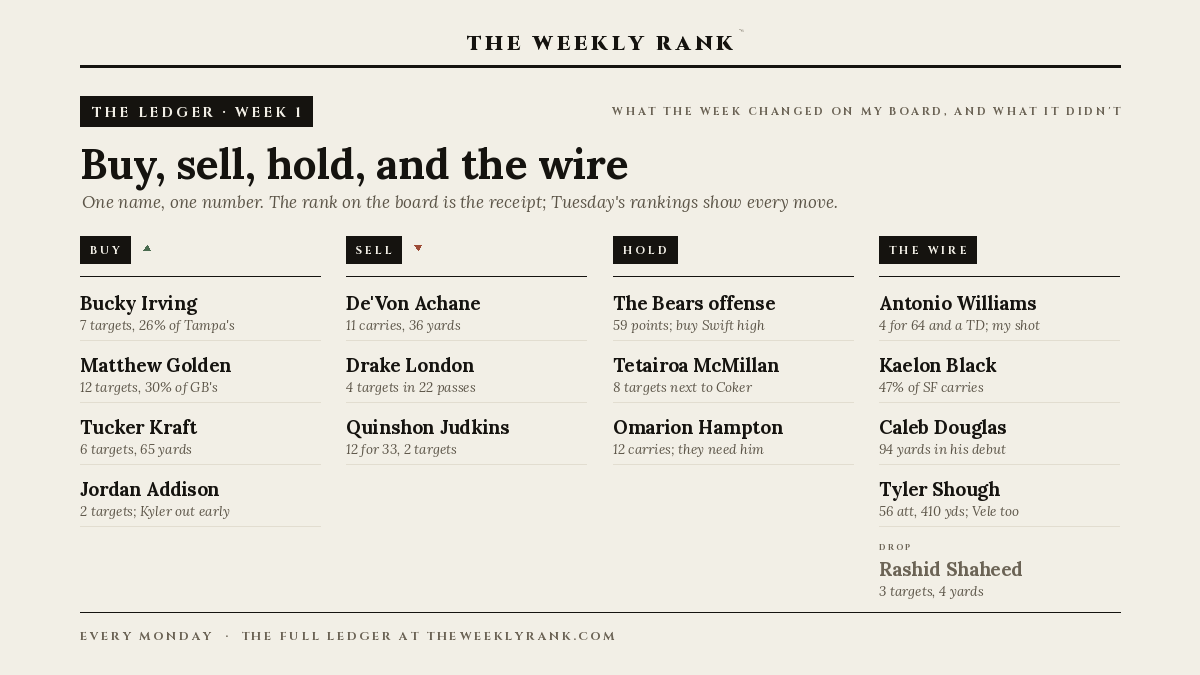
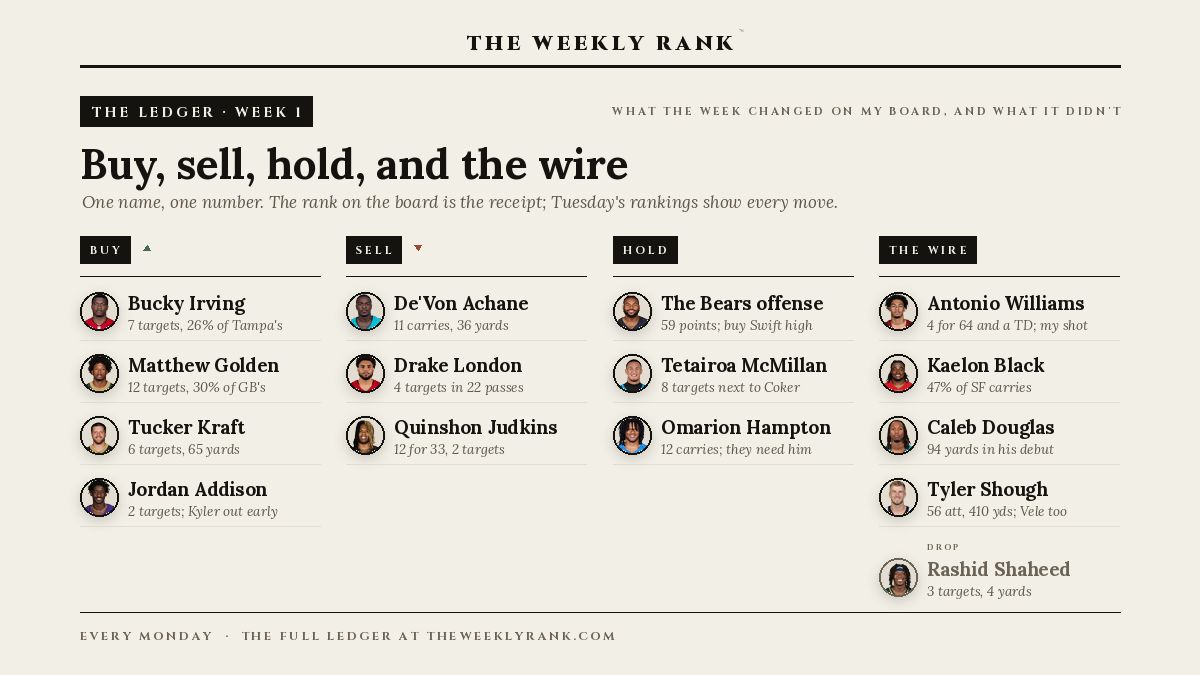
Ledger: Hampton/Herbert hero (All-Pro Reels, CC BY-SA 4.0); headshot plates on the movers and Ledger cards

diff --git a/src/articles/the-ledger-2026-week-01.md b/src/articles/the-ledger-2026-week-01.md
@@ -6,9 +6,9 @@ section: "The Ledger"
 kicker: "Week 1 · The Ledger"
 date: 2026-09-15
 readtime: "6 min"
-image: "/assets/img/ledger-2026-week-01.png"
-imageAlt: "The Ledger, Week 1: four columns, Buy, Sell, Hold and The Wire, one name and one number per line"
-caption: "The Week 1 Ledger at a glance. Buy, Sell, Hold, and The Wire; the full reasoning is below."
+image: "/assets/img/hampton-herbert-2025.jpg"
+imageAlt: "Justin Herbert and Omarion Hampton of the Los Angeles Chargers on the field against the Washington Commanders, October 2025"
+caption: "Justin Herbert and Omarion Hampton, Commanders at Chargers, October 2025. Hampton is this week's Hold. Photo by Joe Glorioso / All-Pro Reels, CC BY-SA 4.0."
 lede: "Every Monday I write down what the week actually changed on my board, in four columns. Buy means the price is below where I have him. Sell means the reverse. Hold is a loud box score that didn't move the role. The Wire is who to add and who to let go, for players under 50% rostered on Yahoo, which reacts faster than the other platforms. The number next to each name is the one that made the call, and the rank in parentheses is where he sits on my board today. Tuesday's rankings show every move."
 ---
 
